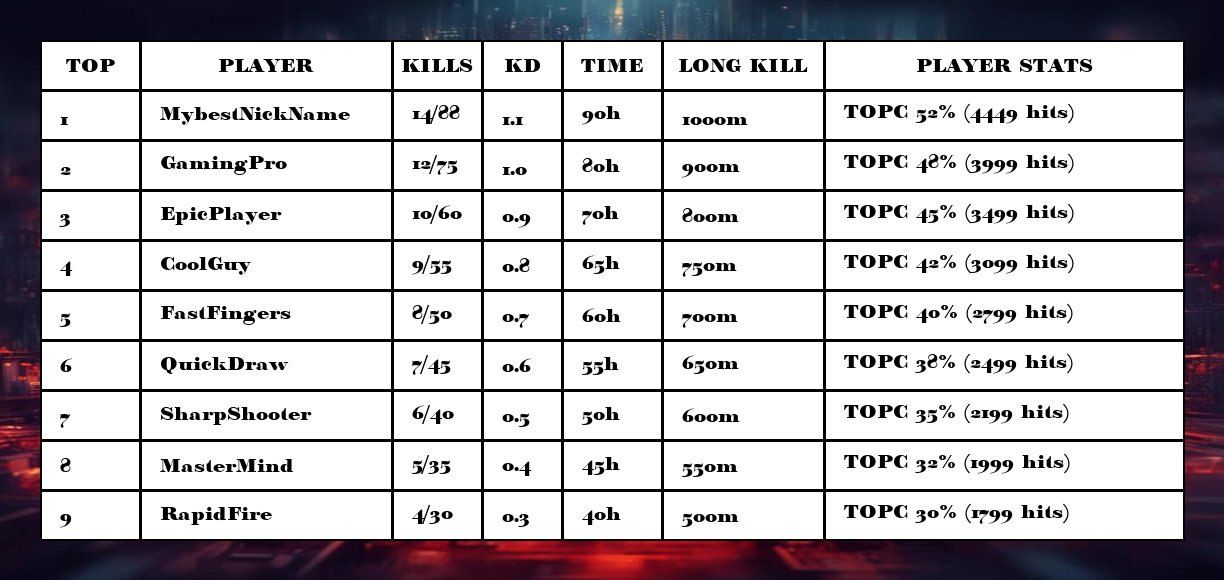
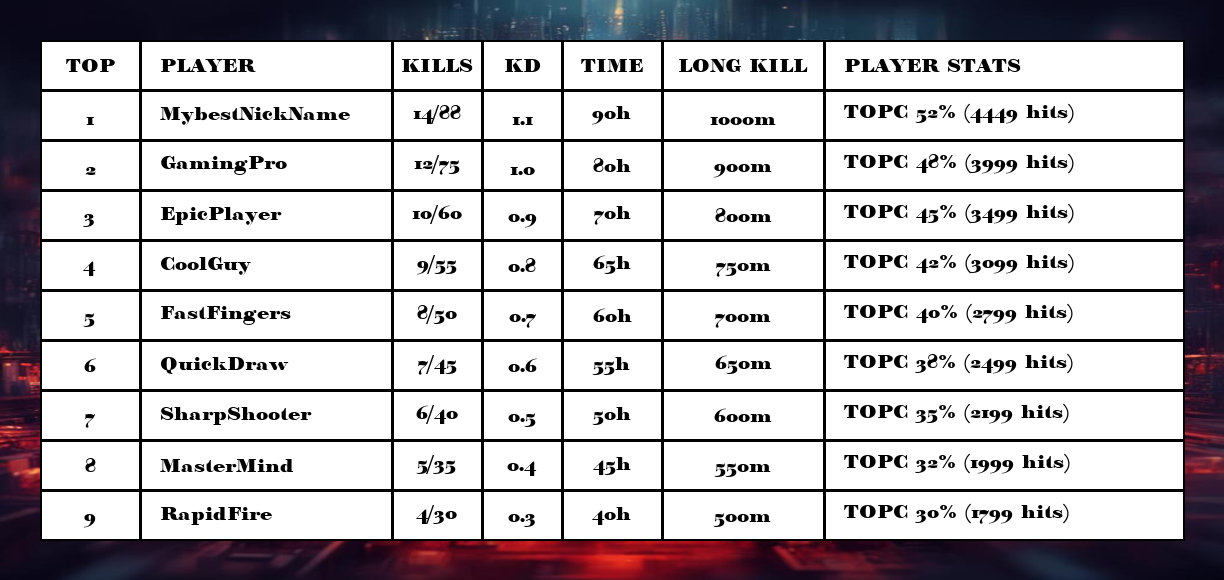
add text align

diff --git a/tbl2pic/generator.py b/tbl2pic/generator.py
@@ -156,7 +156,9 @@ class TableImageGenerator:
         y = 0
         for col_id, cell_data in enumerate(self.cols):
             cell_width = self.cells_content_width[col_id]
-
+            text_align = self.settings.cols_settings[col_id].get(
+                "textAlign", self.settings.cell_text_align
+            )
             self._draw_rectangle(
                 x,
                 y,
@@ -172,7 +174,7 @@ class TableImageGenerator:
                 self.settings.cell_height,
                 str(cell_data).upper(),
                 self.settings.cell_padding,
-                self.settings.header_cell_text_align,
+                text_align,
             )
             x += cell_width
 
@@ -183,7 +185,9 @@ class TableImageGenerator:
             for col_id, cell_data in enumerate(row_data):
                 cell_width = self.cells_content_width[col_id]
                 y = (row + 1) * self.settings.cell_height
-
+                text_align = self.settings.cols_settings[col_id].get(
+                    "textAlign", self.settings.cell_text_align
+                )
                 self._draw_rectangle(
                     x,
                     y,
@@ -199,7 +203,7 @@ class TableImageGenerator:
                     self.settings.cell_height,
                     str(cell_data),
                     self.settings.cell_padding,
-                    self.settings.cell_text_align,
+                    text_align,
                 )
                 x += cell_width
 
